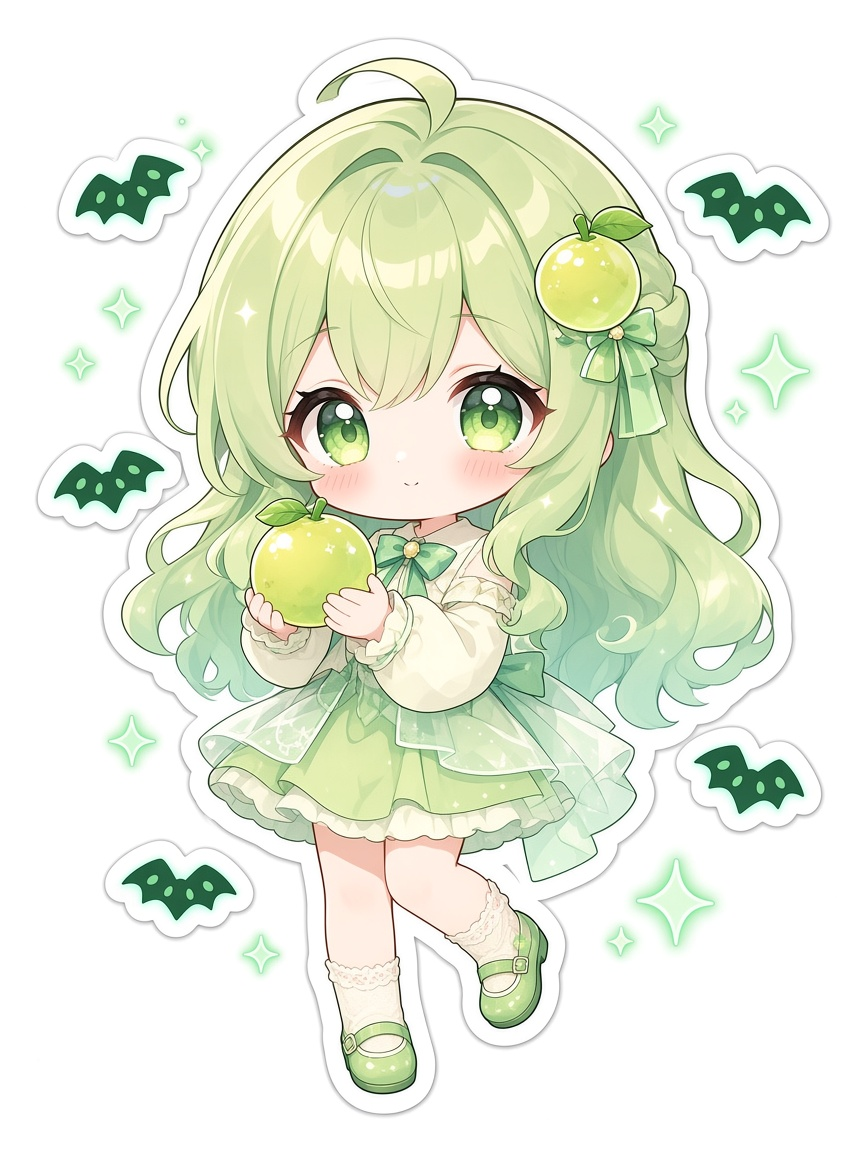
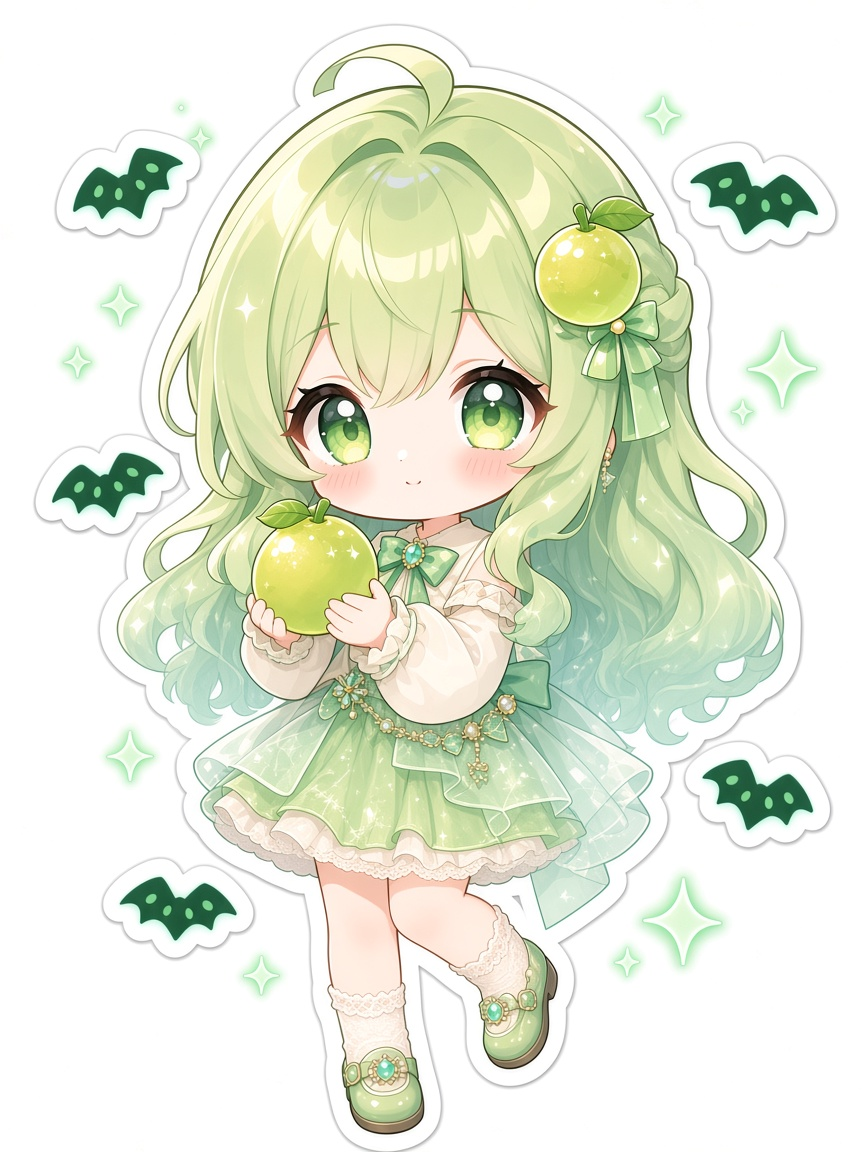
Lock the fruit-mascot style guide and refresh both lux looks.
Add a reusable prompt for later fruit variants, and replace the two chibi girls with more ornate outfits that push jelly and crystal materials onto the clothes.

Changed region(s): [[0.0312, 0.0312, 0.9688, 1.0], [0.125, 0.25, 0.1562, 0.2812], [0.0938, 0.3125, 0.125, 0.3438]]

diff --git a/assets/fruits/STYLE_PROMPT.md b/assets/fruits/STYLE_PROMPT.md
@@ -1,0 +1,38 @@
+# 菠萝农场水果拟人 · 出图风格提示词
+
+以后同类水果立绘，默认按这份执行。
+
+## 风格特征（必须保留）
+
+1. **画风**：商业向 Q 版贴纸 / 手游立绘，干净软描边（偏深棕，不要死黑粗线），软赛璐璐上色，整体明亮高饱和但不过曝。
+2. **比例**：大头小身，头约占全身 1/2～2/5；四肢短圆，手指简化。
+3. **脸**：正常人脸，禁止整颗水果当头。超大闪亮眼睛（多层高光：圆点 + 星芒），小鼻小嘴，淡腮红，表情甜美开朗。
+4. **构图**：全身立绘，居中，纯白底；角色与配饰可有白色描边贴纸感；无文字、无水印、无 logo。
+5. **人设逻辑**：角色是“水果精灵偶像”，不是 cos 头套。水果本体作为发饰 + 手持物保留材质；配色从水果主色延伸到发色与服装。
+
+## 华丽度（本次加码）
+
+1. 服装层次更多：多层荷叶边、透明薄纱、金属饰扣、宝石吊坠、蝴蝶结、刺绣滚边。
+2. **水果材质必须落到衣服上**，不能只出现在道具里：
+   - 果冻 / 半透明果：衣料用半透明凝胶感、内发光、柔和折射高光。
+   - 晶体 / 切面果：裙面或披肩用宝石切面、晶体镶边、细碎反光，但要像布料装饰，不要整块硬贴图。
+   - 绒毛果 / 雾面果：用柔雾绒感、细毛边、雾面渐变。
+3. 配饰来自原图 UI（蝙蝠、星芒、圣代杯、魔法阵、泡泡等）保留，但做成精致小道具 / 环绕特效，不抢脸。
+
+## 英文出图提示词模板（直接套用）
+
+```text
+Premium commercial chibi anime girl sticker, plain white background, soft dark-brown clean outlines, soft cel shading, huge sparkling multi-highlight eyes, tiny nose and mouth, soft blush, normal human face (NEVER a fruit for a head). Fashion-forward fruit-spirit idol design, ornate and luxurious: multi-layered dress with lace, sheer organza, ribbons, gem charms, and refined embroidery. Hair color and outfit palette derived from the fruit. The fruit material MUST appear on the clothing fabric itself (jelly translucency / crystalline facets / fuzzy bloom / glossy peel — matching the source fruit), plus a small matching fruit hair clip and a handheld fruit or signature prop. Keep the original accessory motifs from the source screenshot as elegant floating props. Full body, centered, wholesome, polished merchandise look, no text, no watermark, no logos, do not copy any existing character.
+```
+
+## 单张补充句（按水果改）
+
+- **青果冻柑橘**：`mint-to-lime jelly hair sheen; cream-and-mint layered dress with translucent jelly-like organza that glows softly; green bats and mint four-point stars as familiars; holds a glossy translucent citrus.`
+- **粉晶体桃**：`soft pink hair with gemlike sheen; rose dress with crystal-facet trim and heart gems; holds ornate glass sundae coupe; stands on a pale-blue magic circle; soap bubbles.`
+
+## 禁止
+
+- 水果头 / 头套脸
+- 廉价单层白纱裙、和水果完全无关的衣服
+- 把切面/果冻材质做成丑陋硬贴图
+- 复制已知角色脸或服装
